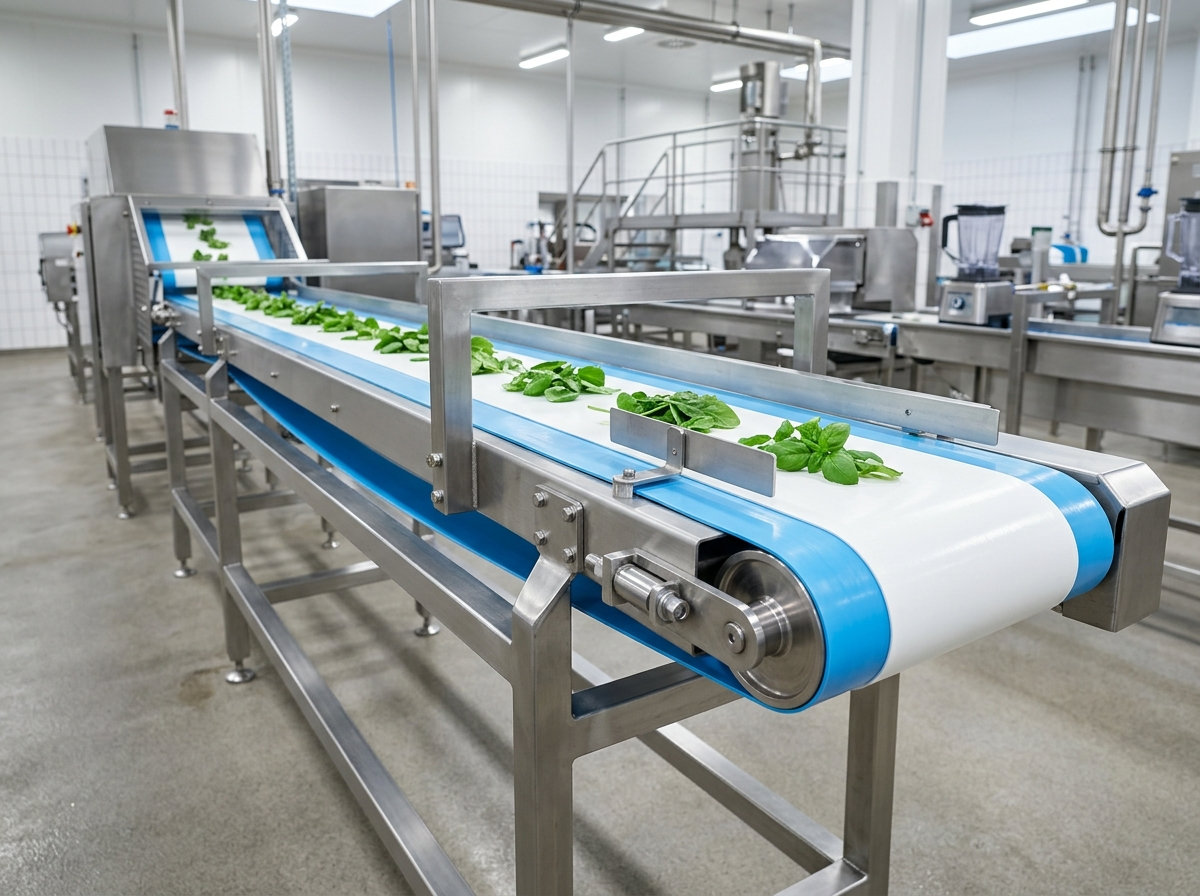
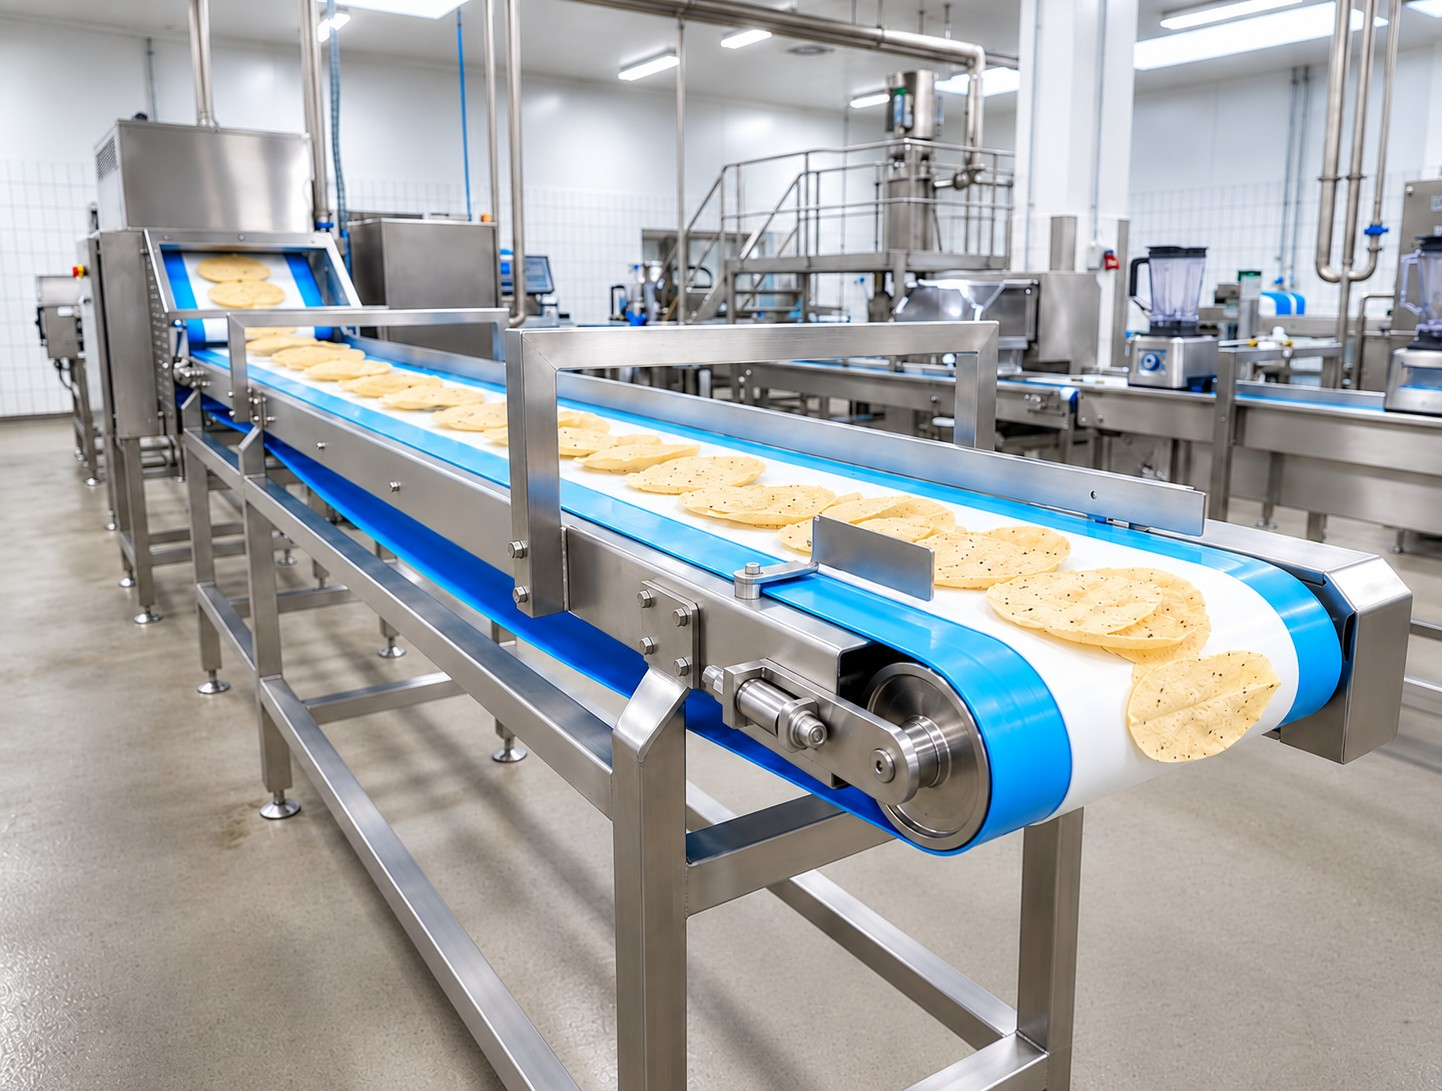
Remove Mud Flap product and update conveyor belt product images

diff --git a/data/products.ts b/data/products.ts
@@ -155,26 +155,6 @@ export const PRODUCTS: Product[] = [
     whatsappMessage: "Hi Peeyem Traders, I am looking for Heavy-Duty Industrial Tarpaulins. Please send size options and pricing.",
     detailsLink: "#products",
   },
-  {
-    id: "mud-flap",
-    name: "Mud Flap",
-    categoryTag: "Commercial Vehicle Rubber",
-    categoryColor: "text-slate-800",
-    specTag: "High Impact Molded Rubber",
-    description: "Heavy-gauge vulcanized rubber mud flaps designed for commercial tipper trucks, trailers, and earth-moving machinery to block flying stones, road spray, and debris.",
-    grades: ["Heavy Commercial Tipper", "Trailer Flaps", "Custom Canvas Reinforced"],
-    specifications: [
-      { key: "Material", value: "Tear-Resistant Molded Rubber with Fabric Canvas" },
-      { key: "Impact Endurance", value: "Withstands Gravel Strike & High-Speed Highway Spray" },
-      { key: "Fitting", value: "Pre-punched Mounting Holes for Fast Installation" },
-      { key: "Durability", value: "Zero Weather Cracking under Severe Heat & Rain" },
-    ],
-    applications: ["Commercial Vehicles", "Stone Crushing Units", "Mining Tippers"],
-    image: "/images/products/mud-flap.jpg",
-    alt: "Heavy Duty Commercial Truck Rubber Mud Flaps",
-    whatsappMessage: "Hi Peeyem Traders, I am inquiring about Commercial Vehicle Rubber Mud Flaps. Please share sizes and rates.",
-    detailsLink: "#products",
-  },
 ];
 
 export const COMPANY_INFO = {

diff --git a/components/products/ProductsHero.tsx b/components/products/ProductsHero.tsx
@@ -92,7 +92,7 @@ export default function ProductsHero({
                   <span className="material-symbols-outlined text-slate-400 text-xl">search</span>
                   <input
                     className="w-full bg-transparent text-sm text-slate-900 placeholder:text-slate-400 focus:outline-none"
-                    placeholder="Search Rubber Conveyor, PU, PVC, V-Belt, Cow Mat, Sheets, Tarpaulin, Mud Flaps..."
+                    placeholder="Search Rubber Conveyor, PU, PVC, V-Belt, Cow Mat, Sheets, Tarpaulin..."
                     type="text"
                     value={searchQuery}
                     onChange={(e) => onSearchChange(e.target.value)}

diff --git a/components/Applications.tsx b/components/Applications.tsx
@@ -181,12 +181,6 @@ const FINDER_PRODUCTS: Record<string, Array<{ name: string; grade: string; image
       image: "/images/products/tarpaulin.jpg",
       desc: "Protective outdoor yard covers for stored raw materials, machinery, and open cargo trucks.",
     },
-    {
-      name: "Mud Flap",
-      grade: "Reinforced Truck Grade",
-      image: "/images/products/mud-flap.jpg",
-      desc: "Heavy molded rubber splash guards for commercial tippers, dumpers, and trailers.",
-    },
   ],
 };
 
